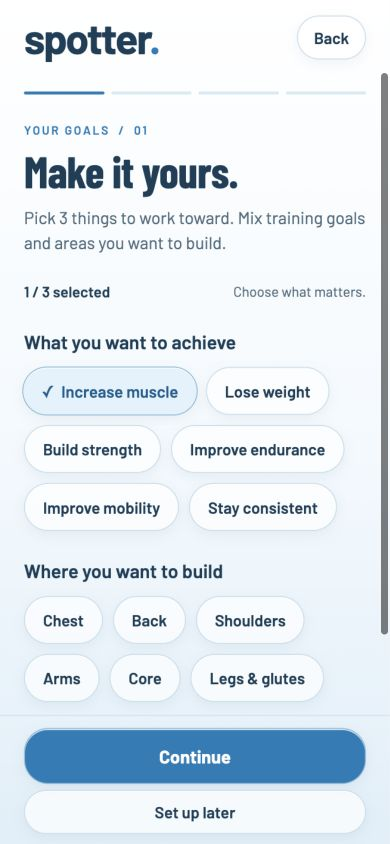
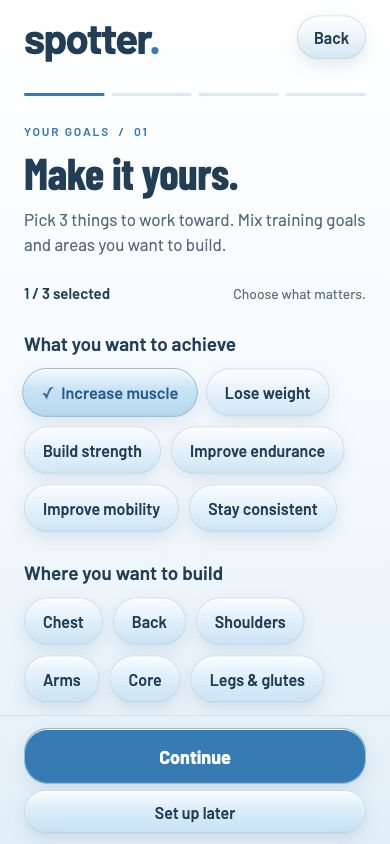
fix(mobile): unify workout setup and add onboarding settings

diff --git a/apps/mobile/src/screens/Onboarding/index.tsx b/apps/mobile/src/screens/Onboarding/index.tsx
@@ -1,6 +1,6 @@
 import { useEffect, useRef, useState } from 'react';
 import { AccessibilityInfo, ActivityIndicator, Keyboard, StyleSheet, Text, TextInput, View } from 'react-native';
-import { router } from 'expo-router';
+import { router, useLocalSearchParams } from 'expo-router';
 import { SetupPage } from '@/components/SetupPage';
 import { GlassChoice } from '@/components/GlassChoice';
 import { colors as c, typography as t } from '@/theme/tokens';
@@ -16,6 +16,9 @@ const copy = [
 ];
 export default function OnboardingScreen() {
   const state = useOnboarding(), auth = useAuth();
+  const { from } = useLocalSearchParams<{ from?: string }>();
+  const editing = from === 'settings';
+  function leave() { if (editing) router.dismissTo('/settings'); else router.replace('/'); }
   const { draft, setDraft, step, setStep, busy, status } = state;
   const [notice, setNotice] = useState<string | null>(null), [finished, setFinished] = useState(false);
   const heading = useRef<Text>(null);
@@ -28,10 +31,10 @@ export default function OnboardingScreen() {
     if (step < 3) { setStep(step + 1); return; }
     setFinished(await state.save(skip));
   }
-  if (finished && status === 'complete' && !state.error) return <SetupPage step={3} total={4} eyebrow="You're set" title="Your starting point is saved." intro="A little stronger, at your own pace." action="Back to Train" onAction={() => router.replace('/')} onBack={() => { setFinished(false); setStep(0); }}><Text style={s.text}>Your goals, experience and training rhythm are ready for your planner.</Text></SetupPage>;
+  if (finished && status === 'complete' && !state.error) return <SetupPage step={3} total={4} eyebrow="You're set" title="Your starting point is saved." intro="A little stronger, at your own pace." action={editing ? "Back to Settings" : "Back to Train"} onAction={leave} onBack={() => { setFinished(false); setStep(0); }}><Text style={s.text}>Your goals, experience and training rhythm are ready for your planner.</Text></SetupPage>;
   const content = copy[step];
   const blocked = busy || status === 'loading';
-  return <SetupPage step={step} total={4} {...content} action={busy ? 'Saving…' : step === 3 ? 'Finish setup' : 'Continue'} disabled={blocked} onAction={() => { void advance(); }} onBack={() => { if (busy) return; setNotice(null); if (step) setStep(step - 1); else router.replace('/'); }} secondary={step === 3 ? 'Skip injury note' : 'Set up later'} onSecondary={() => { if (step === 3) void advance(true); else router.replace('/'); }}>
+  return <SetupPage step={step} total={4} {...content} action={busy ? 'Saving…' : step === 3 ? 'Finish setup' : 'Continue'} disabled={blocked} onAction={() => { void advance(); }} onBack={() => { if (busy) return; setNotice(null); if (editing) leave(); else if (step) setStep(step - 1); else leave(); }} secondary={step === 3 ? 'Skip injury note' : editing ? 'Back to Settings' : 'Set up later'} onSecondary={() => { if (step === 3) void advance(true); else leave(); }}>
     {status === 'loading' ? <ActivityIndicator color={c.primary} accessibilityLabel="Loading your profile" /> : <View style={{ gap: 28 }} pointerEvents={busy ? 'none' : 'auto'}>
       {step === 0 && <>
         <View style={s.count}><Text ref={heading} accessibilityLiveRegion="polite" style={s.label}>{draft.goals.length} / 3 selected</Text><Text style={s.muted}>Choose what matters.</Text></View>
@@ -84,7 +87,7 @@ const s = StyleSheet.create({
   section: { fontFamily: t.label, fontSize: 19, color: c.text }, label: { fontFamily: t.label, fontSize: 15, color: c.text },
   text: { fontFamily: t.family, fontSize: 17, lineHeight: 26, color: c.text }, muted: { fontFamily: t.family, fontSize: 14, lineHeight: 21, color: c.muted },
   best: { gap: 8 }, inputs: { flexDirection: 'row', flexWrap: 'wrap', gap: 10 }, half: { flex: 1, minWidth: 100 },
-  input: { minHeight: 52, fontFamily: t.family, fontSize: 17, color: c.text, borderWidth: 1, borderColor: '#BDD6E6', borderRadius: 16, backgroundColor: 'rgba(255,255,255,0.76)', paddingHorizontal: 16, paddingVertical: 14 },
+  input: { minHeight: 52, fontFamily: t.family, fontSize: 17, color: c.text, borderWidth: 1, borderColor: '#BDD6E6', borderRadius: 16, backgroundColor: 'rgba(213,235,248,0.45)', boxShadow: 'inset 0 1px 0 rgba(255,255,255,0.95), 0 5px 16px rgba(40,95,125,0.08)', paddingHorizontal: 16, paddingVertical: 14 },
   note: { minHeight: 180 }, preview: { gap: 8, paddingTop: 18, borderTopWidth: 1, borderColor: c.border },
   disclaimer: { fontFamily: t.family, fontSize: 14, lineHeight: 22, color: c.text }, error: { fontFamily: t.label, fontSize: 15, lineHeight: 22, color: '#963C30' },
 });

diff --git a/apps/mobile/src/components/AppPage.tsx b/apps/mobile/src/components/AppPage.tsx
@@ -6,7 +6,7 @@ import { LinearGradient } from 'expo-linear-gradient';
 import Head from 'expo-router/head';
 import { colors as c, typography as t, pageColors, PageColors, usePageColors } from '@/theme/tokens';
 import { useReducedMotion } from '@/hooks/useReducedMotion';
-export function AppPage({ children, title = 'Train', intro, compact = false }: { children: ReactNode; title?: string; intro?: string; compact?: boolean }) {
+export function AppPage({ children, title = 'Train', intro, compact = false, headerAction }: { children: ReactNode; title?: string; intro?: string; compact?: boolean; headerAction?: ReactNode }) {
   const colors = pageColors(title), ui = pageStyles(title);
   const reduced = useReducedMotion(), [entrance] = useState(() => new Animated.Value(1));
   useEffect(() => { if (reduced !== false) return; entrance.setValue(0); const a = Animated.timing(entrance, { toValue: 1, duration: 450, easing: Easing.out(Easing.cubic), useNativeDriver: Platform.OS !== 'web' }); a.start(); return () => a.stop(); }, [entrance, reduced]);
@@ -14,7 +14,7 @@ export function AppPage({ children, title = 'Train', intro, compact = false }: {
     <Head><title>{title} · Spotter</title></Head>
     <SafeAreaView edges={['top', 'left', 'right']} style={{ flex: 1 }}><ScrollView contentContainerStyle={ui.scroll}>
       <Animated.View style={[ui.content, compact && { gap: 8 }, { opacity: entrance, transform: [{ translateY: entrance.interpolate({ inputRange: [0, 1], outputRange: [7, 0] }) }] }]}>
-        <View style={ui.brandRow}><Text accessibilityRole="header" style={ui.brand}>spotter<Text style={{ color: colors.primary }}>.</Text></Text>{title !== 'Train' && <Text style={ui.sectionName}>{title}</Text>}</View>
+        <View style={ui.brandRow}><Text accessibilityRole="header" style={ui.brand}>spotter<Text style={{ color: colors.primary }}>.</Text></Text><View style={{ flexDirection: 'row', flexWrap: 'wrap', alignItems: 'center', gap: 12, flexShrink: 1 }}>{title !== 'Train' && <Text style={ui.sectionName}>{title}</Text>}{headerAction}</View></View>
         {intro && <Text style={ui.pageTitle} accessibilityRole="header">{intro}</Text>}{children}
       </Animated.View>
     </ScrollView></SafeAreaView>
@@ -26,7 +26,7 @@ export function Action({ children, onPress, secondary = false, disabled = false 
 }
 export const ui = StyleSheet.create({
   scroll: { flexGrow: 1, paddingBottom: 110 }, content: { width: '100%', maxWidth: 660, alignSelf: 'center', paddingHorizontal: 24, paddingTop: 22, gap: 16 },
-  brandRow: { flexDirection: 'row', justifyContent: 'space-between', alignItems: 'center' }, brand: { fontFamily: t.strong, fontSize: 44, letterSpacing: -1.7, color: c.text, lineHeight: 48 }, sectionName: { fontFamily: t.label, fontSize: 16, color: c.muted },
+  brandRow: { flexDirection: 'row', flexWrap: 'wrap', gap: 12, justifyContent: 'space-between', alignItems: 'center' }, brand: { fontFamily: t.strong, fontSize: 44, letterSpacing: -1.7, color: c.text, lineHeight: 48, flexShrink: 1 }, sectionName: { fontFamily: t.label, fontSize: 16, color: c.muted },
   pageTitle: { fontFamily: t.strong, fontSize: 32, lineHeight: 38, letterSpacing: -.7, color: c.text, marginTop: 16 }, heading: { fontFamily: t.label, fontSize: 22, color: c.text, marginTop: 12 }, text: { fontFamily: t.family, fontSize: 17, lineHeight: 25, color: c.text }, muted: { fontFamily: t.family, fontSize: 15, lineHeight: 22, color: c.muted },
   label: { fontFamily: t.label, fontSize: 15, color: c.muted }, row: { paddingVertical: 18, borderTopWidth: 1, borderTopColor: c.border, flexDirection: 'row', alignItems: 'center', justifyContent: 'space-between', gap: 14 }, rowTitle: { fontFamily: t.label, fontSize: 20, color: c.text },
   action: { backgroundColor: '#397DADEB', borderWidth: 1, borderColor: 'rgba(255,255,255,0.6)', boxShadow: 'inset 0 1px 0 rgba(255,255,255,0.25), 0 5px 18px rgba(52,118,163,0.12)', minHeight: 54, padding: 16, borderRadius: 22, alignItems: 'center', justifyContent: 'center', marginTop: 6 }, actionText: { fontFamily: t.strong, fontSize: 18, color: 'white' }, secondary: { backgroundColor: c.primarySoft },

diff --git a/apps/mobile/src/components/GlassChoice.tsx b/apps/mobile/src/components/GlassChoice.tsx
@@ -1,5 +1,6 @@
 import { useEffect, useState } from 'react';
 import { AccessibilityInfo, Platform, StyleSheet, Text, View } from 'react-native';
+import { LinearGradient } from 'expo-linear-gradient';
 import { GlassView, isGlassEffectAPIAvailable, isLiquidGlassAvailable } from 'expo-glass-effect';
 import { useReducedMotion } from '@/hooks/useReducedMotion';
 import { colors as c, typography as t } from '@/theme/tokens';
@@ -19,14 +20,15 @@ export function GlassChoice({ label, selected = false, onPress, disabled = false
   }, []);
   let nativeGlass = false;
   try { nativeGlass = Platform.OS === 'ios' && !opaque && isGlassEffectAPIAvailable() && isLiquidGlassAvailable(); } catch { /* An older development build uses the fallback until rebuilt. */ }
-  const background = primary ? '#087DBA' : selected ? '#DBEFFB' : opaque ? '#FFFFFF' : 'rgba(255,255,255,0.66)';
+  const background = primary ? '#087DBA' : opaque ? selected ? '#DBEFFB' : '#FFFFFF' : selected ? 'rgba(148,207,239,0.48)' : 'rgba(194,226,244,0.32)';
   return <PolishedPressable testID={testID} accessibilityRole={radio ? 'radio' : compact || primary ? 'button' : 'checkbox'} accessibilityLabel={label} accessibilityHint={hint} aria-checked={radio || !compact && !primary ? selected : undefined} accessibilityState={{ disabled, ...(radio ? { checked: selected } : !compact && !primary ? { checked: selected } : {}) }} disabled={disabled} onPress={onPress} style={({ pressed }) => [s.press, compact && s.compact, primary && s.primary, { borderColor: selected ? '#8CBED9' : '#C7DEE9', backgroundColor: nativeGlass ? 'transparent' : background, opacity: disabled ? 0.45 : 1, transform: [{ scale: pressed && reduced === false ? 0.975 : 1 }] }]}>
     {nativeGlass && <GlassView pointerEvents="none" colorScheme="light" glassEffectStyle="regular" tintColor={primary ? '#087DBA' : selected ? '#C1E6FB' : '#FFFFFF'} isInteractive={reduced === false} style={[StyleSheet.absoluteFill, { borderRadius: primary ? 24 : 999 }]} />}
+    {!nativeGlass && !opaque && !primary && <LinearGradient pointerEvents="none" colors={selected ? ['rgba(255,255,255,0.78)', 'rgba(180,220,242,0.12)', 'rgba(94,172,215,0.24)'] : ['rgba(255,255,255,0.88)', 'rgba(255,255,255,0.18)', 'rgba(123,190,226,0.22)']} locations={[0, 0.42, 1]} style={[StyleSheet.absoluteFill, { borderRadius: 999 }]} />}
     <View style={s.content}>{selected && !primary && !compact && <Text importantForAccessibility="no" accessibilityElementsHidden style={s.check}>✓</Text>}<Text style={[s.label, primary && { color: 'white', fontFamily: t.strong, fontSize: 18 }, selected && !primary && { color: '#075F90' }]}>{label}</Text></View>
   </PolishedPressable>;
 }
 const s = StyleSheet.create({
-  press: { minHeight: 48, paddingHorizontal: 18, paddingVertical: 13, borderRadius: 999, borderWidth: 1, justifyContent: 'center', boxShadow: 'inset 0 1px 0 rgba(255,255,255,0.9), 0 4px 12px rgba(31,90,120,0.07)' },
+  press: { minHeight: 48, paddingHorizontal: 18, paddingVertical: 13, borderRadius: 999, borderWidth: 1, justifyContent: 'center', boxShadow: 'inset 0 1px 0 rgba(255,255,255,0.95), inset 0 -1px 0 rgba(126,185,216,0.25), 0 6px 16px rgba(31,90,120,0.12)', ...Platform.select({ web: { backdropFilter: 'blur(18px) saturate(150%)' } }) },
   compact: { minHeight: 44, paddingHorizontal: 16, paddingVertical: 10 }, primary: { minHeight: 56, borderRadius: 24 },
   content: { flexDirection: 'row', flexWrap: 'wrap', gap: 7, alignItems: 'center', justifyContent: 'center' },
   label: { fontFamily: t.label, fontSize: 16, color: c.text, flexShrink: 1, textAlign: 'center' }, check: { fontFamily: t.strong, fontSize: 16, color: '#075F90' },

diff --git a/apps/mobile/src/screens/Progress/index.tsx b/apps/mobile/src/screens/Progress/index.tsx
@@ -3,6 +3,7 @@ import { ActivityIndicator, Animated, Easing, Image, StyleSheet, Text, TextInput
 import * as ImagePicker from 'expo-image-picker';
 import { SymbolView } from 'expo-symbols';
 import { AppPage, Action, pageStyles } from '@/components/AppPage';
+import { GlassChoice } from '@/components/GlassChoice';
 import { PolishedPressable } from '@/components/PolishedPressable';
 import { Streak } from '@/components/Streak';
 import { calendarDay, streak } from '@/data/workout';
@@ -53,7 +54,7 @@ export default function ProgressScreen() {
     finally { setPhotoBusy(false); }
   }
   function edit() { setName(displayName === 'Your name' ? '' : displayName); setBio(profile.bio); setEditing(true); }
-  return <AppPage title="Me">
+  return <AppPage title="Me" headerAction={<GlassChoice compact label="Settings" onPress={() => router.push('/settings')} />}>
     <View style={styles.profile}>
       <View style={styles.identity}>
         <PolishedPressable accessibilityRole="button" accessibilityLabel="Change profile picture" disabled={photoBusy} onPress={() => { void pickPhoto(); }} style={styles.avatar}>
@@ -76,7 +77,6 @@ export default function ProgressScreen() {
       <Streak days={streak(workouts)} />
     </View>
     {error && <Text accessibilityRole="alert" style={styles.error}>{error}</Text>}
-    <PolishedPressable accessibilityRole="button" onPress={() => router.push('/onboarding')} style={{ minHeight: 48, justifyContent: 'center' }}><Text style={styles.link}>{setup.profile?.onboarding_completed ? 'Edit goals & training rhythm' : 'Set up goals & training rhythm'}</Text></PolishedPressable>
     <View style={styles.tabs} onLayout={event => setTabWidth(event.nativeEvent.layout.width)}>
       {tabWidth > 0 && <Animated.View pointerEvents="none" style={[styles.tabLine, { width: tabWidth / 3, backgroundColor: slide.interpolate({ inputRange: [0, tabWidth / 3, 2 * tabWidth / 3], outputRange: sectionColors, extrapolate: 'clamp' }), transform: [{ translateX: slide }] }]} />}
       {sections.map((label, index) => <PolishedPressable key={label} accessibilityRole="tab" accessibilityState={{ selected: index === section }} accessibilityLabel={label} onPress={() => setSection(index)} style={styles.tab}><SymbolView name={sectionIcons[index]} tintColor={sectionColors[index]} size={25} style={{ opacity: index === section ? 1 : 0.6 }} /></PolishedPressable>)}

diff --git a/apps/mobile/src/screens/Onboarding/__tests__/screen.test.tsx b/apps/mobile/src/screens/Onboarding/__tests__/screen.test.tsx
@@ -2,15 +2,16 @@
 import React from 'react';
 import OnboardingScreen from '../index';
 import { OnboardingProvider } from '../state';
+import { router, useLocalSearchParams } from 'expo-router';
 import { useAuth } from '@/screens/Auth/session';
 const { act, create } = require('react-test-renderer');
 
 jest.mock('@/screens/Auth/session', () => ({ useAuth: jest.fn() }));
-jest.mock('expo-router', () => ({ router: { replace: jest.fn() } }));
+jest.mock('expo-router', () => ({ router: { replace: jest.fn(), dismissTo: jest.fn() }, useLocalSearchParams: jest.fn(() => ({})) }));
 jest.mock('@/components/SetupPage', () => ({ SetupPage: (props: unknown) => require('react').createElement('SetupPage', props) }));
 jest.mock('@/components/GlassChoice', () => ({ GlassChoice: (props: unknown) => require('react').createElement('Choice', props) }));
 let renderer: ReturnType<typeof create>;
-beforeEach(() => jest.mocked(useAuth).mockReturnValue({ user: null, apiFetch: jest.fn() } as never));
+beforeEach(() => { jest.mocked(useAuth).mockReturnValue({ user: null, apiFetch: jest.fn() } as never); jest.mocked(useLocalSearchParams).mockReturnValue({}); });
 afterEach(() => act(() => renderer.unmount()));
 const choose = (label: string) => renderer.root.findAllByType('Choice').find((n: { props: { label: string } }) => n.props.label === label);
 const next = () => act(() => renderer.root.findByType('SetupPage').props.onAction());
@@ -54,4 +55,14 @@ test('account changes discard the previous account’s answers', async () => {
   jest.mocked(useAuth).mockReturnValue({ user: { id: 'b' }, apiFetch } as never);
   await act(async () => renderer.update(<OnboardingProvider key="b"><OnboardingScreen /></OnboardingProvider>));
   expect(choose('Increase muscle').props.selected).toBe(false);
+});
+
+test('editing returns to the existing settings screen from any question', async () => {
+  jest.mocked(useLocalSearchParams).mockReturnValue({ from: 'settings' });
+  act(() => { renderer = create(<OnboardingProvider><OnboardingScreen /></OnboardingProvider>); });
+  for (const label of ['Increase muscle', 'Core', 'Arms']) act(() => choose(label).props.onPress());
+  await next();
+  act(() => renderer.root.findByType('SetupPage').props.onBack());
+  expect(router.dismissTo).toHaveBeenCalledWith('/settings');
+  expect(renderer.root.findByType('SetupPage').props.step).toBe(1);
 });

diff --git a/apps/mobile/src/screens/LiveSet/__tests__/entry.test.tsx b/apps/mobile/src/screens/LiveSet/__tests__/entry.test.tsx
@@ -1,0 +1,34 @@
+/* eslint-disable @typescript-eslint/no-require-imports -- Renderer matches existing mobile tests. */
+import React from 'react';
+import CameraSetupScreen from '../index';
+import WorkoutEntry from '@/app/workout';
+import { router, useLocalSearchParams } from 'expo-router';
+const { act, create } = require('react-test-renderer');
+jest.mock('expo-router', () => ({ router: { replace: jest.fn(), back: jest.fn(), canGoBack: () => true }, useLocalSearchParams: jest.fn(), Redirect: (props: unknown) => require('react').createElement('Redirect', props) }));
+jest.mock('@/components/AppPage', () => ({ ui: {}, AppPage: (props: unknown) => require('react').createElement('Page', props), Action: 'Action' }));
+jest.mock('@/components/BodyPreview', () => ({ BodyPreview: 'Body' }));
+jest.mock('@/components/SetupPage', () => ({ SetupPage: (props: unknown) => require('react').createElement('SetupPage', props) }));
+jest.mock('@/components/GlassChoice', () => ({ GlassChoice: 'Choice' }));
+jest.mock('../CameraCheck', () => ({ __esModule: true, default: 'CameraCheck' }));
+jest.mock('../PlacementDiagram', () => ({ PlacementDiagram: 'Diagram' }));
+beforeEach(() => { jest.clearAllMocks(); jest.mocked(useLocalSearchParams).mockReturnValue({}); });
+test('a direct workout entry starts camera setup first', () => {
+  let screen: ReturnType<typeof create>;
+  act(() => { screen = create(<WorkoutEntry />); });
+  expect(screen.root.findByType('Redirect').props.href).toBe('/camera-setup');
+  act(() => screen.unmount());
+});
+test('camera setup starts a prepared workout and rechecks preserve an existing session', () => {
+  let screen: ReturnType<typeof create>;
+  act(() => { screen = create(<CameraSetupScreen />); });
+  act(() => screen.root.findByType('SetupPage').props.onSecondary());
+  expect(router.replace).toHaveBeenCalledWith({ pathname: '/workout', params: { setup: 'done' } });
+  act(() => screen.unmount());
+  jest.mocked(useLocalSearchParams).mockReturnValue({ returnTo: 'workout' });
+  act(() => { screen = create(<CameraSetupScreen />); });
+  act(() => screen.root.findByType('SetupPage').props.onAction());
+  act(() => screen.root.findByType('SetupPage').props.onAction());
+  act(() => screen.root.findByType('CameraCheck').props.onContinue());
+  expect(router.back).toHaveBeenCalledTimes(1);
+  act(() => screen.unmount());
+});

diff --git a/apps/mobile/src/screens/LiveSet/index.tsx b/apps/mobile/src/screens/LiveSet/index.tsx
@@ -17,8 +17,8 @@ export default function CameraSetupScreen() {
   const params = useLocalSearchParams<{ exercise?: string; returnTo?: string }>();
   const [step, setStep] = useState(0), [exercise, setExercise] = useState(exerciseOptions.some(e => e.id === params.exercise) ? params.exercise! : 'curl');
   const sideOn = exercise === 'squat' || exercise === 'lunge';
-  function returnToWorkout() { if (params.returnTo === 'workout' && router.canGoBack()) router.back(); else router.replace('/workout'); }
-  return <SetupPage compact={step === 2} step={step} total={3} {...copy[step]} action={step === 0 ? 'I’ve chosen my spot' : step === 1 ? 'Check my framing' : 'Return to manual workout'} onAction={() => step < 2 ? setStep(step + 1) : returnToWorkout()} onBack={() => step ? setStep(step - 1) : router.canGoBack() ? router.back() : router.replace('/')} secondary={step < 2 ? 'Continue without camera' : undefined} onSecondary={returnToWorkout}>
+  function returnToWorkout() { if (params.returnTo === 'workout' && router.canGoBack()) router.back(); else router.replace({ pathname: '/workout', params: { setup: 'done' } }); }
+  return <SetupPage compact={step === 2} step={step} total={3} {...copy[step]} action={step === 0 ? 'I’ve chosen my spot' : step === 1 ? 'Check my framing' : 'Start manual workout'} onAction={() => step < 2 ? setStep(step + 1) : returnToWorkout()} onBack={() => step ? setStep(step - 1) : router.canGoBack() ? router.back() : router.replace('/')} secondary={step < 2 ? 'Continue without camera' : undefined} onSecondary={returnToWorkout}>
     {step === 0 && <>
       <View style={s.group}><Text style={s.section}>What are you training?</Text><View style={s.wrap}>{exerciseOptions.map(option => <GlassChoice key={option.id} label={option.label} radio selected={exercise === option.id} onPress={() => setExercise(option.id)} />)}</View></View>
       <Text style={s.text}>Remember your spot using a floor seam or another nearby landmark. You’ll come back here after placing the phone.</Text>

diff --git a/apps/mobile/src/screens/Settings/__tests__/navigation.test.tsx b/apps/mobile/src/screens/Settings/__tests__/navigation.test.tsx
@@ -1,0 +1,22 @@
+/* eslint-disable @typescript-eslint/no-require-imports -- Renderer matches existing mobile tests. */
+import React from 'react';
+import SettingsScreen from '../index';
+import { router } from 'expo-router';
+import { useOnboarding } from '@/screens/Onboarding/state';
+const { act, create } = require('react-test-renderer');
+jest.mock('expo-router', () => ({ router: { push: jest.fn(), back: jest.fn(), canGoBack: () => true } }));
+jest.mock('@/screens/Onboarding/state', () => ({ useOnboarding: jest.fn() }));
+jest.mock('@/components/AppPage', () => ({ ui: {}, AppPage: (props: unknown) => require('react').createElement('Page', props) }));
+jest.mock('@/components/GlassChoice', () => ({ GlassChoice: (props: unknown) => require('react').createElement('Choice', props) }));
+test('settings opens every onboarding question at its own step', () => {
+  const setStep = jest.fn();
+  jest.mocked(useOnboarding).mockReturnValue({ setStep } as never);
+  let screen: ReturnType<typeof create>;
+  act(() => { screen = create(<SettingsScreen />); });
+  for (const [step, label] of ['Goals', 'Experience & personal bests', 'Workout schedule', 'Injuries & limitations'].entries()) {
+    act(() => screen.root.findByProps({ label }).props.onPress());
+    expect(setStep).toHaveBeenLastCalledWith(step);
+    expect(router.push).toHaveBeenLastCalledWith({ pathname: '/onboarding', params: { from: 'settings' } });
+  }
+  act(() => screen.unmount());
+});

diff --git a/apps/mobile/src/screens/Settings/index.tsx b/apps/mobile/src/screens/Settings/index.tsx
@@ -1,0 +1,22 @@
+import { Text, View } from 'react-native';
+import { router } from 'expo-router';
+import { AppPage, ui } from '@/components/AppPage';
+import { GlassChoice } from '@/components/GlassChoice';
+import { useOnboarding } from '@/screens/Onboarding/state';
+
+const questions = [
+  { label: 'Goals', hint: 'Your three goals and areas to build.' },
+  { label: 'Experience & personal bests', hint: 'Your training level and starting lifts.' },
+  { label: 'Workout schedule', hint: 'Weekly days or a repeating rhythm.' },
+  { label: 'Injuries & limitations', hint: 'Anything to keep in mind as you train.' },
+];
+export default function SettingsScreen() {
+  const { setStep } = useOnboarding();
+  return <AppPage title="Settings" intro="Your training, your way." headerAction={<GlassChoice compact label="Back" onPress={() => router.canGoBack() ? router.back() : router.replace('/me')} />}>
+    <Text style={ui.muted}>Revisit your setup answers anytime. Continue through the questions to save your changes.</Text>
+    <View style={{ gap: 22, paddingTop: 14 }}>{questions.map((question, step) => <View key={question.label} style={{ gap: 8 }}>
+      <GlassChoice compact label={question.label} onPress={() => { setStep(step); router.push({ pathname: '/onboarding', params: { from: 'settings' } }); }} />
+      <Text style={ui.muted}>{question.hint}</Text>
+    </View>)}</View>
+  </AppPage>;
+}

diff --git a/apps/mobile/src/app/workout.tsx b/apps/mobile/src/app/workout.tsx
@@ -1,13 +1,17 @@
 import { PolishedPressable } from '@/components/PolishedPressable';
 import { useEffect, useRef, useState } from 'react';
 import { Text, TextInput, View } from 'react-native';
-import { router } from 'expo-router';
+import { Redirect, router, useLocalSearchParams } from 'expo-router';
 import { AppPage, Action, ui } from '@/components/AppPage';
 import { BodyPreview } from '@/components/BodyPreview';
 import { exercises } from '@/data/workout';
 import { useTraining } from '@/state/Training';
 import { colors as c } from '@/theme/tokens';
-export default function WorkoutScreen() {
+export default function WorkoutEntry() {
+  const { setup } = useLocalSearchParams<{ setup?: string }>();
+  return setup === 'done' ? <WorkoutScreen /> : <Redirect href="/camera-setup" />;
+}
+function WorkoutScreen() {
   const { finish, removeWorkout } = useTraining(), started = useRef(0), recorded = useRef(false), savedId = useRef<string | null>(null);
   const [sets, setSets] = useState<number[]>([]), [reps, setReps] = useState(String(exercises[0].reps)), [rest, setRest] = useState(0), [done, setDone] = useState(false), [playing, setPlaying] = useState(false);
   useEffect(() => { started.current = Date.now(); }, []);

diff --git a/apps/mobile/src/screens/Train/index.tsx b/apps/mobile/src/screens/Train/index.tsx
@@ -33,8 +33,7 @@ export default function TrainScreen() {
       <Text style={[styles.name, selected === e.id && { color: c.primary }]}>{e.name}</Text>
       <View style={styles.details}><Text style={styles.reps}>{e.sets} × {e.reps} reps</Text><Text style={styles.detail}>{e.muscles}</Text></View>
     </PolishedPressable>)}</View>
-    <Action onPress={() => router.push('/workout')}>Begin Workout</Action>
-    <Action secondary onPress={() => router.push({ pathname: '/camera-setup', params: { exercise: selected ?? 'curl' } })}>Set up my camera</Action>
+    <Action onPress={() => router.push({ pathname: '/camera-setup', params: { exercise: exercises[0].id } })}>Begin Workout</Action>
     <PolishedPressable accessibilityRole="button" onPress={() => router.push('/onboarding')} style={{ minHeight: 44, alignItems: 'center', justifyContent: 'center' }}><Text style={ui.muted}>Set my goals & training rhythm</Text></PolishedPressable>
     <Text style={[ui.muted, { textAlign: 'center', fontSize: 12 }]}>Sample routine · workout days build your streak</Text>
   </AppPage>;

diff --git a/apps/mobile/src/screens/LiveSet/CameraCheck.tsx b/apps/mobile/src/screens/LiveSet/CameraCheck.tsx
@@ -86,7 +86,7 @@ function CameraPreview({ position, engine, size, exercise, onFlip, onContinue }:
     {(exercise === 'squat' || exercise === 'lunge') && <Text style={s.text}>Side-on view: face across the camera, so it can see your movement from the side.</Text>}
     <Text style={s.caption}>Keep your full rep inside the frame. The eight-foot guide is approximate.</Text>
     <GlassChoice compact label={position === 'front' ? 'Use back camera' : 'Use front camera'} onPress={onFlip} />
-    <GlassChoice label="Framing checked · return to workout" primary selected disabled={!valid} onPress={onContinue} />
+    <GlassChoice label="Framing checked · continue" primary selected disabled={!valid} onPress={onContinue} />
     <GlassChoice compact label="Continue without camera" onPress={onContinue} />
     <Text style={s.caption}>Your workout still uses manual rep tracking. Live set coaching comes next.</Text>
   </View>;
